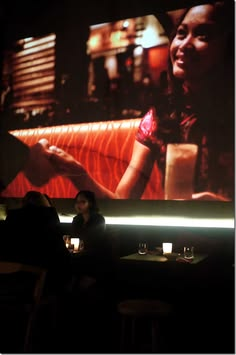
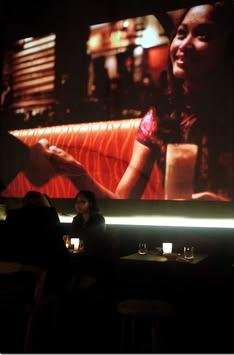
v3

diff --git a/index.html b/index.html
@@ -224,6 +224,26 @@
   .proj-gallery img:hover { filter: grayscale(0%) contrast(1.15); }
   @media (max-width: 900px) { .proj-gallery { grid-template-columns: repeat(2, 1fr); } .proj-gallery img { height: 190px; } }
   @media (max-width: 520px) { .proj-gallery { grid-template-columns: 1fr; } }
+  .coaster-gallery { display: grid; grid-template-columns: repeat(3, 1fr); gap: 18px; }
+  .coaster-gallery.two { grid-template-columns: repeat(2, 1fr); max-width: 680px; margin: 0 auto; }
+  .coaster-gallery.four { grid-template-columns: repeat(4, 1fr); }
+  @media (max-width: 900px) { .coaster-gallery.four { grid-template-columns: repeat(2, 1fr); } }
+  .menu-refs { display: grid; grid-template-columns: repeat(2, 1fr); gap: 16px; margin-top: 12px; }
+  .menu-refs.three { grid-template-columns: repeat(3, 1fr); }
+  .menu-refs figure { margin: 0; }
+  .menu-refs img { width: 100%; height: 420px; object-fit: cover; border-radius: 4px; display: block; filter: contrast(1.04); }
+  .menu-refs figcaption { margin-top: 9px; font-size: 0.6rem; font-weight: 600; letter-spacing: 0.14em; text-transform: uppercase; color: var(--concrete); line-height: 1.4; }
+  @media (max-width: 900px) { .menu-refs.three { grid-template-columns: repeat(2, 1fr); } }
+  @media (max-width: 640px) { .menu-refs, .menu-refs.three { grid-template-columns: 1fr; } }
+  .coaster-gallery figure { margin: 0; }
+  .coaster-gallery img { width: 100%; height: 300px; object-fit: cover; border-radius: 4px; display: block; filter: contrast(1.05); }
+  .coaster-gallery figcaption { margin-top: 9px; font-size: 0.6rem; font-weight: 600; letter-spacing: 0.16em; text-transform: uppercase; color: var(--concrete); }
+  .ref-label { margin-top: 20px; font-weight: 700; font-size: 0.6rem; letter-spacing: 0.2em; text-transform: uppercase; color: var(--bone); }
+  .ref-strip { display: grid; grid-template-columns: repeat(3, 1fr); gap: 14px; margin-top: 12px; }
+  .ref-strip figure { margin: 0; }
+  .ref-strip img { width: 100%; height: 160px; object-fit: cover; border-radius: 4px; display: block; opacity: 0.82; filter: grayscale(8%); }
+  .ref-strip figcaption { margin-top: 7px; font-size: 0.58rem; font-weight: 600; letter-spacing: 0.14em; text-transform: uppercase; color: var(--concrete); line-height: 1.35; }
+  @media (max-width: 900px) { .coaster-gallery { grid-template-columns: 1fr; } }
 
   /* ---------- Uniform & Merch ---------- */
   .merch-grid { display: grid; grid-template-columns: repeat(auto-fit, minmax(260px, 1fr)); gap: 24px; margin-top: 40px; align-items: start; }
@@ -232,6 +252,15 @@
   .merch-shot > img { width: 100%; height: auto; display: block; filter: contrast(1.03) brightness(0.97); }
   .merch-mark { position: absolute; transform: translate(-50%, -50%); filter: drop-shadow(0 2px 7px rgba(0,0,0,0.55)); }
   .merch-mark svg { width: 100%; height: auto; display: block; }
+  .merch-card.wide { grid-column: 1 / -1; }
+  .tee-examples, .cap-examples { display: grid; gap: 2px; }
+  .tee-examples { grid-template-columns: repeat(4, 1fr); }
+  .tee-examples.five { grid-template-columns: repeat(5, 1fr); }
+  .cap-examples { grid-template-columns: repeat(5, 1fr); }
+  .tee-examples figure, .cap-examples figure { margin: 0; position: relative; line-height: 0; }
+  .tee-examples img, .cap-examples img { width: 100%; height: 320px; object-fit: cover; display: block; filter: contrast(1.03) brightness(0.97); }
+  .tee-examples figcaption, .cap-examples figcaption { position: absolute; left: 0; right: 0; bottom: 0; padding: 8px 10px; font-size: 0.58rem; font-weight: 600; letter-spacing: 0.14em; text-transform: uppercase; color: #fff; line-height: 1.3; background: linear-gradient(to top, rgba(0,0,0,0.72), rgba(0,0,0,0)); }
+  @media (max-width: 720px) { .tee-examples, .cap-examples { grid-template-columns: repeat(2, 1fr); } }
   .merch-info { padding: 18px 20px 22px; }
   .merch-info .t { font-weight: 700; text-transform: uppercase; letter-spacing: 0.14em; font-size: 0.78rem; color: var(--molten); margin-bottom: 7px; }
   .merch-info .d { font-size: 0.84rem; color: var(--concrete); line-height: 1.56; }
@@ -473,11 +502,168 @@
 <section id="logo">
   <div class="wrap">
     <div class="sec-head"><span class="sec-num">04</span><h2>Logo Design Concepts</h2></div>
-    <p class="sec-intro">Three directions, each shown as a <b>blueprint</b> — the build-up from first stroke to finished mark on the right, and the symbolism annotated on the anatomy diagram. All share the same bespoke geometry: a monumental stone block plus the two circular icons you favoured.</p>
+    <p class="sec-intro">Four directions, each shown as a <b>blueprint</b> — the build-up from first stroke to finished mark on the right, and the symbolism annotated on the anatomy diagram. They run from a rough-hewn wordmark to a monumental stone block and two circular icons.</p>
 
-    <!-- Concept 01 — The Monolith -->
+    <p class="sec-intro" style="margin-top:30px;font-size:1rem;"><b style="color:var(--molten);letter-spacing:0.04em;">CONCEPT 01 · THE CONTRAST WORDMARK</b><br>One idea — a rough-hewn, organic 'O' meeting clean geometric type — shown as two variations below.</p>
+
+    <!-- Concept 01.1 — The Contrast Mark -->
     <div class="blueprint">
-      <div class="bp-head"><span class="type">Concept 01 · Stacked Monogram</span><h3>The Monolith</h3></div>
+      <div class="bp-head"><span class="type">Concept 1.1 · Contrast Wordmark</span><h3>The Contrast Mark</h3></div>
+      <p class="bp-sub">The name, built on tension. The 'O' is rough-hewn, wobbly, and organic — like a raw stone found in the earth. The 'RUS' is clean, sharp, and geometric. This contrast between raw nature and high design perfectly captures the brand, accented by a single molten spark.</p>
+      <div class="bp-grid">
+        <div class="bp-anatomy">
+          <div class="bp-label">Anatomy & Symbolism</div>
+          <svg viewBox="0 0 400 240" role="img" aria-label="Annotated contrast ORUS wordmark">
+            <defs>
+              <filter id="roughEdge" x="-20%" y="-20%" width="140%" height="140%">
+                <feTurbulence type="fractalNoise" baseFrequency="0.08" numOctaves="3" result="noise" />
+                <feDisplacementMap in="SourceGraphic" in2="noise" scale="4" xChannelSelector="R" yChannelSelector="G" />
+              </filter>
+            </defs>
+            
+            <!-- Clean RUS -->
+            <text x="115" y="135" font-size="68" font-weight="800" letter-spacing="4" fill="#EDE7DB">RUS</text>
+            
+            <!-- Rough O -->
+            <path d="M 70,80 C 95,77 105,95 102,120 C 98,140 75,143 55,135 C 40,125 42,95 50,85 C 58,75 65,82 70,80 Z M 72,100 C 68,105 68,120 75,123 C 82,125 88,110 82,103 C 78,97 75,95 72,100 Z" fill="#EDE7DB" filter="url(#roughEdge)" />
+            
+            <!-- Molten Spark -->
+            <path d="M 108,82 C 113,80 116,84 114,89 C 111,94 104,93 103,87 C 101,82 104,83 108,82 Z" fill="#E5531A" filter="url(#roughEdge)" />
+
+            <!-- Annotations — tidy right column -->
+            <line x1="114" y1="85" x2="300" y2="68" stroke="#9C958A" stroke-width="1" opacity="0.4" /><circle cx="114" cy="85" r="2" fill="#E5531A" />
+            <text x="308" y="66" font-size="12" font-weight="700" fill="#EDE7DB" letter-spacing="1">MOLTEN SPARK</text>
+            <text x="308" y="81" font-size="11" fill="#9C958A">A single warm accent</text>
+
+            <line x1="205" y1="100" x2="300" y2="118" stroke="#9C958A" stroke-width="1" opacity="0.4" /><circle cx="205" cy="100" r="2" fill="#E5531A" />
+            <text x="308" y="116" font-size="12" font-weight="700" fill="#EDE7DB" letter-spacing="1">CLEAN GEOMETRY</text>
+            <text x="308" y="131" font-size="11" fill="#9C958A">High-design contrast</text>
+
+            <line x1="72" y1="128" x2="300" y2="168" stroke="#9C958A" stroke-width="1" opacity="0.4" /><circle cx="72" cy="128" r="2" fill="#E5531A" />
+            <text x="308" y="166" font-size="12" font-weight="700" fill="#EDE7DB" letter-spacing="1">ROUGH-HEWN 'O'</text>
+            <text x="308" y="181" font-size="11" fill="#9C958A">Organic, stone-like origin</text>
+          </svg>
+        </div>
+        <div class="bp-process">
+          <div class="bp-label">Design Process</div>
+          <div class="bp-steps">
+            <div class="bp-step">
+              <svg viewBox="0 0 100 100">
+                <g transform="translate(-12 6) scale(0.4)">
+                  <text x="40" y="135" font-size="68" font-weight="800" letter-spacing="4" fill="#EDE7DB">ORUS</text>
+                </g>
+              </svg>
+              <span class="cap"><span class="num">1</span> · Set clean wordmark</span>
+            </div>
+            <div class="bp-arrow">›</div>
+            <div class="bp-step">
+              <svg viewBox="0 0 100 100">
+                <defs><filter id="r1" x="-20%" y="-20%" width="140%" height="140%"><feTurbulence type="fractalNoise" baseFrequency="0.08" numOctaves="3" result="n"/><feDisplacementMap in="SourceGraphic" in2="n" scale="4" xChannelSelector="R" yChannelSelector="G"/></filter></defs>
+                <g transform="translate(-12 6) scale(0.4)">
+                  <text x="115" y="135" font-size="68" font-weight="800" letter-spacing="4" fill="#EDE7DB">RUS</text>
+                  <path d="M 70,80 C 95,77 105,95 102,120 C 98,140 75,143 55,135 C 40,125 42,95 50,85 C 58,75 65,82 70,80 Z M 72,100 C 68,105 68,120 75,123 C 82,125 88,110 82,103 C 78,97 75,95 72,100 Z" fill="#EDE7DB" filter="url(#r1)" />
+                </g>
+              </svg>
+              <span class="cap"><span class="num">2</span> · Isolate &amp; roughen 'O'</span>
+            </div>
+            <div class="bp-arrow">›</div>
+            <div class="bp-step">
+              <svg viewBox="0 0 100 100">
+                <defs><filter id="r2" x="-20%" y="-20%" width="140%" height="140%"><feTurbulence type="fractalNoise" baseFrequency="0.08" numOctaves="3" result="n"/><feDisplacementMap in="SourceGraphic" in2="n" scale="4" xChannelSelector="R" yChannelSelector="G"/></filter></defs>
+                <g transform="translate(-12 6) scale(0.4)">
+                  <text x="115" y="135" font-size="68" font-weight="800" letter-spacing="4" fill="#EDE7DB">RUS</text>
+                  <path d="M 70,80 C 95,77 105,95 102,120 C 98,140 75,143 55,135 C 40,125 42,95 50,85 C 58,75 65,82 70,80 Z M 72,100 C 68,105 68,120 75,123 C 82,125 88,110 82,103 C 78,97 75,95 72,100 Z" fill="#EDE7DB" filter="url(#r2)" />
+                  <path d="M 108,82 C 113,80 116,84 114,89 C 111,94 104,93 103,87 C 101,82 104,83 108,82 Z" fill="#E5531A" filter="url(#r2)" />
+                </g>
+              </svg>
+              <span class="cap"><span class="num">3</span> · Add molten spark</span>
+            </div>
+          </div>
+        </div>
+      </div>
+    </div>
+
+    <!-- Concept 01.2 — The Seam (variation) -->
+    <div class="blueprint">
+      <div class="bp-head"><span class="type">Concept 1.2 · Contrast Wordmark · Variation</span><h3>The Seam</h3></div>
+      <p class="bp-sub">The same rough-hewn 'O' against clean type — but here the molten accent grows into a slanted, raw seam dropped in after the R, splitting the mark into <b>OR · US</b>. The seam leans and breaks just like the 'O', so it reads hewn from the same rock. It literally writes the brand wordplay: leave the OR behind, find US.</p>
+      <div class="bp-grid">
+        <div class="bp-anatomy">
+          <div class="bp-label">Anatomy & Symbolism</div>
+          <svg viewBox="0 0 400 240" role="img" aria-label="Annotated OR US seam wordmark">
+            <defs>
+              <filter id="roughEdge2" x="-20%" y="-20%" width="140%" height="140%">
+                <feTurbulence type="fractalNoise" baseFrequency="0.08" numOctaves="3" result="noise" />
+                <feDisplacementMap in="SourceGraphic" in2="noise" scale="4" xChannelSelector="R" yChannelSelector="G" />
+              </filter>
+            </defs>
+
+            <!-- Rough O -->
+            <path d="M 70,80 C 95,77 105,95 102,120 C 98,140 75,143 55,135 C 40,125 42,95 50,85 C 58,75 65,82 70,80 Z M 72,100 C 68,105 68,120 75,123 C 82,125 88,110 82,103 C 78,97 75,95 72,100 Z" fill="#EDE7DB" filter="url(#roughEdge2)" />
+            <!-- Clean R -->
+            <text x="112" y="135" font-size="60" font-weight="800" fill="#EDE7DB">R</text>
+            <!-- Rough molten seam -->
+            <path d="M 174,82 C 168,99 160,116 150,138 C 149,140 154,141 156,139 C 166,118 174,101 180,84 C 181,82 175,80 174,82 Z" fill="#E5531A" filter="url(#roughEdge2)" />
+            <!-- Clean US -->
+            <text x="178" y="135" font-size="60" font-weight="800" letter-spacing="2" fill="#EDE7DB">US</text>
+
+            <!-- Annotations — tidy right column -->
+            <line x1="176" y1="85" x2="300" y2="68" stroke="#9C958A" stroke-width="1" opacity="0.4" /><circle cx="176" cy="85" r="2" fill="#E5531A" />
+            <text x="308" y="66" font-size="12" font-weight="700" fill="#EDE7DB" letter-spacing="1">MOLTEN SEAM</text>
+            <text x="308" y="81" font-size="11" fill="#9C958A">Slanted &amp; raw, like the 'O'</text>
+
+            <line x1="235" y1="105" x2="300" y2="118" stroke="#9C958A" stroke-width="1" opacity="0.4" /><circle cx="235" cy="105" r="2" fill="#E5531A" />
+            <text x="308" y="116" font-size="12" font-weight="700" fill="#EDE7DB" letter-spacing="1">OR · US SPLIT</text>
+            <text x="308" y="131" font-size="11" fill="#9C958A">Leave the OR, find US</text>
+
+            <line x1="72" y1="128" x2="300" y2="168" stroke="#9C958A" stroke-width="1" opacity="0.4" /><circle cx="72" cy="128" r="2" fill="#E5531A" />
+            <text x="308" y="166" font-size="12" font-weight="700" fill="#EDE7DB" letter-spacing="1">ROUGH-HEWN 'O'</text>
+            <text x="308" y="181" font-size="11" fill="#9C958A">Organic, stone-like origin</text>
+          </svg>
+        </div>
+        <div class="bp-process">
+          <div class="bp-label">Design Process</div>
+          <div class="bp-steps">
+            <div class="bp-step">
+              <svg viewBox="0 0 100 100">
+                <g transform="translate(-12 6) scale(0.4)">
+                  <text x="40" y="135" font-size="68" font-weight="800" letter-spacing="4" fill="#EDE7DB">ORUS</text>
+                </g>
+              </svg>
+              <span class="cap"><span class="num">1</span> · Set clean wordmark</span>
+            </div>
+            <div class="bp-arrow">›</div>
+            <div class="bp-step">
+              <svg viewBox="0 0 100 100">
+                <defs><filter id="r3" x="-20%" y="-20%" width="140%" height="140%"><feTurbulence type="fractalNoise" baseFrequency="0.08" numOctaves="3" result="n"/><feDisplacementMap in="SourceGraphic" in2="n" scale="4" xChannelSelector="R" yChannelSelector="G"/></filter></defs>
+                <g transform="translate(-12 6) scale(0.4)">
+                  <text x="115" y="135" font-size="68" font-weight="800" letter-spacing="4" fill="#EDE7DB">RUS</text>
+                  <path d="M 70,80 C 95,77 105,95 102,120 C 98,140 75,143 55,135 C 40,125 42,95 50,85 C 58,75 65,82 70,80 Z M 72,100 C 68,105 68,120 75,123 C 82,125 88,110 82,103 C 78,97 75,95 72,100 Z" fill="#EDE7DB" filter="url(#r3)" />
+                </g>
+              </svg>
+              <span class="cap"><span class="num">2</span> · Roughen the 'O'</span>
+            </div>
+            <div class="bp-arrow">›</div>
+            <div class="bp-step">
+              <svg viewBox="0 0 100 100">
+                <defs><filter id="r4" x="-20%" y="-20%" width="140%" height="140%"><feTurbulence type="fractalNoise" baseFrequency="0.08" numOctaves="3" result="n"/><feDisplacementMap in="SourceGraphic" in2="n" scale="4" xChannelSelector="R" yChannelSelector="G"/></filter></defs>
+                <g transform="translate(-12 6) scale(0.4)">
+                  <text x="112" y="135" font-size="60" font-weight="800" fill="#EDE7DB">R</text>
+                  <text x="178" y="135" font-size="60" font-weight="800" letter-spacing="2" fill="#EDE7DB">US</text>
+                  <path d="M 70,80 C 95,77 105,95 102,120 C 98,140 75,143 55,135 C 40,125 42,95 50,85 C 58,75 65,82 70,80 Z M 72,100 C 68,105 68,120 75,123 C 82,125 88,110 82,103 C 78,97 75,95 72,100 Z" fill="#EDE7DB" filter="url(#r4)" />
+                  <path d="M 174,82 C 168,99 160,116 150,138 C 149,140 154,141 156,139 C 166,118 174,101 180,84 C 181,82 175,80 174,82 Z" fill="#E5531A" filter="url(#r4)" />
+                </g>
+              </svg>
+              <span class="cap"><span class="num">3</span> · Drop the molten seam</span>
+            </div>
+          </div>
+        </div>
+      </div>
+    </div>
+
+    <!-- Concept 02 — The Monolith -->
+    <div class="blueprint">
+      <div class="bp-head"><span class="type">Concept 02 · Stacked Monogram</span><h3>The Monolith</h3></div>
       <p class="bp-sub">A heavy, carved-in-stone 2×2 block — the most permanent, grounded expression of the brand, encoding the full wordmark and the OR / US wordplay in one monument.</p>
       <div class="bp-grid">
         <div class="bp-anatomy">
@@ -522,9 +708,9 @@
       </div>
     </div>
 
-    <!-- Concept 02 — The Circle of Life -->
+    <!-- Concept 03 — The Circle of Life -->
     <div class="blueprint">
-      <div class="bp-head"><span class="type">Concept 02 · Icon + Wordmark</span><h3>The Circle of Life</h3></div>
+      <div class="bp-head"><span class="type">Concept 03 · Icon + Wordmark</span><h3>The Circle of Life</h3></div>
       <p class="bp-sub">A standalone icon built from the "O" — geometric perfection broken by a single arc of dawn light, the mouth of the cave at sunrise.</p>
       <div class="bp-grid">
         <div class="bp-anatomy">
@@ -566,9 +752,9 @@
       </div>
     </div>
 
-    <!-- Concept 03 — The Seal -->
+    <!-- Concept 04 — The Seal -->
     <div class="blueprint">
-      <div class="bp-head"><span class="type">Concept 03 · Ink-Seal Icon</span><h3>The Seal</h3></div>
+      <div class="bp-head"><span class="type">Concept 04 · Ink-Seal Icon</span><h3>The Seal</h3></div>
       <p class="bp-sub">A refined, geometric take on the traditional hanko stamp — built for physical texture as the brand's definitive coaster and stamp seal.</p>
       <div class="bp-grid">
         <div class="bp-anatomy">
@@ -685,13 +871,15 @@
         <img src="Imageries/db89e3a1abf5ea58e33854cdd9843aa6.jpg" alt="Brand Imagery">
       </div>
       <div class="gallery-col">
+        <img src="Imageries/d1c78f9978de60b3c59f2ba8b704b021.jpg" alt="Brand Imagery">
+        <img src="Imageries/0154acc5bd4582aa62f79042e18b3d4c.jpg" alt="Brand Imagery">
         <img src="Imageries/518e50d0b1f07bab441b30b4355db726.jpg" alt="Brand Imagery">
         <img src="Imageries/6ed500bc70b33a1981e50d7a2e360956.jpg" alt="Brand Imagery">
         <img src="Imageries/4e7e24ab66c8a3569b9fe5c106814b15.jpg" alt="Brand Imagery">
+        <img src="Imageries/e04ae960af98b58748d96900b2c41556.jpg" alt="Brand Imagery">
         <img src="Imageries/25f1ed9c937a510100d8c97db108471e.jpg" alt="Brand Imagery">
         <img src="Imageries/a193a00c855d27e0f37655201161cff7.jpg" alt="Brand Imagery">
         <img src="Imageries/8edfea947015e0e3742e7548be404a74.jpg" alt="Brand Imagery">
-        <img src="Imageries/4bb884799c875e5cd66facf6089e9e96.jpg" alt="Brand Imagery">
       </div>
       <div class="gallery-col">
         <img src="Imageries/66d1a1c45a6f0f16686367eced483446.jpg" alt="Brand Imagery">
@@ -741,10 +929,34 @@
         </div>
       </div>
 
-      <!-- Menu & coaster — work in progress + concepts -->
+      <!-- Coasters & glass charms — built-in wingman -->
+      <div class="coll-card wide proj">
+        <div class="stage">
+          <div class="coaster-gallery four">
+            <figure><img src="Coaster/ref_best_before_charms.png" alt="Reusable silicone glass charms with playful Best Before lines"><figcaption>Reusable silicone glass charms</figcaption></figure>
+            <figure><img src="Coaster/ref_quote_coasters.png" alt="Recyclable board coasters with bold one-line typography"><figcaption>Recyclable board coasters</figcaption></figure>
+            <figure><img src="Coaster/ref_flirt_oneliner.png" alt="Round coaster reading Life is short, flirt with me"><figcaption>Flirty one-liner</figcaption></figure>
+            <figure><img src="Coaster/ref_double_sided.png" alt="Double-sided printed board coasters with a playlist and line-art"><figcaption>Double-sided · playlist &amp; art</figcaption></figure>
+          </div>
+        </div>
+        <div class="meta">
+          <div class="t">Coasters &amp; Glass Charms — A Built-in Wingman</div>
+          <div class="d">In a dark, intimate cave room, ORUS is a prime spot for first dates — so the coaster does the flirting. It comes as a pair: one reads <b>"OR…"</b>, the other <b>"…US"</b>. A date glances down and the line writes itself — "another one here… <b>OR US</b> heading back?" The name becomes an instant, low-key conversation starter. Extend it with a playful <b>"BEST BEFORE…"</b> series — flirting, last call, dancing, commitment — that regulars want to collect.<br><br>Format leans <b>sustainable</b>, not stone: <b>reusable silicone glass charms</b> that live on the stem and go home with regulars, plus <b>recycled-board coasters</b> printed in soy ink. Cheap on price, low on waste, never cheap to the touch.</div>
+          <div class="coll-spec"><span>Reusable Silicone</span><span>Recycled Board</span><span>OR… / …US Pair</span><span>Best-Before Series</span></div>
+        </div>
+      </div>
+
+      <!-- Menu — work in progress + concepts -->
       <div class="coll-note">
-        <h4>Menu &amp; Coaster — Coming Soon</h4>
-        <p>The menu and coaster designs need a little more time. Both hinge on locking the <b>final logo</b> and the <b>programme</b> first. In the meantime, here are three directions for the menu — each disguises the drink list as something unexpected, while still shouting value and nudging people to order.</p>
+        <h4>Menu — Coming Soon</h4>
+        <p>The menu design needs a little more time — it hinges on locking the <b>final logo</b> and the <b>programme</b> first.  <b>On format</b>, we like a tactile, low-waste object — a small photo booklet that shows the drinks instead of describing them, layered recycled stock with torn raw edges, die-cut icons, or clean mono type anchored by a single ore-rock mark. <b> On content</b>, here are three directions — each disguises the drink list as something unexpected, while still shouting value and nudging people to order.</p>
+        <div class="ref-label">Format &amp; Material References</div>
+        <div class="menu-refs">
+          <figure><img src="Menu/menu_booklet.png" alt="Tactile photo booklet menu showing dishes as photographs"><figcaption>Photo booklet · show the drink, don't describe it</figcaption></figure>
+          <figure><img src="Menu/menu_layered.png" alt="Layered recycled-stock menu with torn edges and colour-coded sections"><figcaption>Layered recycled stock · torn edges, colour-coded</figcaption></figure>
+          <figure><img src="Menu/menu_diecut_icons.png" alt="Kraft fold-out menu with die-cut food icons"><figcaption>Die-cut icons · kraft fold-out</figcaption></figure>
+          <figure><img src="Menu/menu_mono_clean.png" alt="Clean black and white menu with an ore-rock illustration"><figcaption>Clean mono type · ore-rock mark</figcaption></figure>
+        </div>
         <div class="menu-concepts">
           <div class="mc">
             <div class="n">CONCEPT 01</div>
@@ -815,26 +1027,47 @@
     <div class="merch-grid">
 
       <!-- Back-print crew tee -->
-      <div class="merch-card">
+      <div class="merch-card wide">
+        <div class="tee-examples five">
+          <figure><img src="Merchs/tee/tee_social_lubricant.png" alt="Back-print tee with a witty line and small illustration"><figcaption>Witty line + small line-art</figcaption></figure>
+          <figure><img src="Merchs/tee/tee_roasted_toasted.png" alt="Back-print tee with arched type and collab lockup"><figcaption>Arched type + collab lockup</figcaption></figure>
+          <figure><img src="Merchs/tee/tee_night_market.png" alt="Back-print tee with circular night-market badge"><figcaption>Circular badge / local crest</figcaption></figure>
+          <figure><img src="Merchs/tee/tee_plantastic.png" alt="Back-print tee with a bold organic graphic in oxide-red"><figcaption>Bold oxide-red graphic</figcaption></figure>
+          <figure><img src="Merchs/tee/tee_mascot_duo.png" alt="Two back-print tees with a walking food mascot in oxide-red"><figcaption>Playful mascot · cream & red</figcaption></figure>
+        </div>
         <div class="merch-info">
           <div class="t">Back-Print Crew Tee</div>
-          <div class="d">Oversized tee in bone and oxide-red. The seal blown up as a bold back print — the piece people actually wear out of the cave.</div>
+          <div class="d">Oversized tee in bone and oxide-red. Reference examples for the back-print direction — playful one-liners, arched type, a circular crest, and a single bold graphic. ORUS prints would carry the seal and wordmark in this same tongue-in-cheek, local-print spirit.</div>
         </div>
       </div>
 
       <!-- Embroidered cap -->
-      <div class="merch-card">
+      <div class="merch-card wide">
+        <div class="cap-examples">
+          <figure><img src="Merchs/cap/cap_produce_tray.png" alt="Cap packaged in a produce tray like supermarket fruit"><figcaption>Produce-tray packaging</figcaption></figure>
+          <figure><img src="Merchs/cap/cap_front_logo.png" alt="Washed cap with small front embroidery"><figcaption>Small front embroidery</figcaption></figure>
+          <figure><img src="Merchs/cap/cap_net_pack.png" alt="Caps bagged in a produce net like fruit"><figcaption>Net-bag packaging</figcaption></figure>
+          <figure><img src="Merchs/cap/cap_colour_range.png" alt="Row of washed caps in a range of colours"><figcaption>Washed colour range</figcaption></figure>
+          <figure><img src="Merchs/cap/cap_script_embroidery.png" alt="Stack of caps with script embroidery in multiple colours"><figcaption>Script embroidery · colourways</figcaption></figure>
+        </div>
         <div class="merch-info">
           <div class="t">Embroidered Cap</div>
-          <div class="d">Low-profile washed cap with the seal embroidered on the front. Quiet branding, all texture — worn long after the night ends.</div>
+          <div class="d">Low-profile washed cap with the seal embroidered on the front. Reference examples for direction — small front mark, washed colourways, script options, plus playful market-style packaging (produce tray, net bag) that ties caps back to ORUS's wet-market, value spirit.</div>
         </div>
       </div>
 
       <!-- Hoodie -->
-      <div class="merch-card">
+      <div class="merch-card wide">
+        <div class="tee-examples five">
+          <figure><img src="Merchs/hoodie/hoodie_tonal_back.png" alt="Black hoodie with large tonal back-print typography"><figcaption>Tonal tone-on-tone back-print</figcaption></figure>
+          <figure><img src="Merchs/hoodie/hoodie_front_type.png" alt="Cream hoodie with playful question-style front type"><figcaption>Front type · one-liner</figcaption></figure>
+          <figure><img src="Merchs/hoodie/hoodie_hood_embroidery.png" alt="Navy hoodie with tonal embroidery on the hood"><figcaption>Tonal hood embroidery</figcaption></figure>
+          <figure><img src="Merchs/hoodie/hoodie_back_line.png" alt="Pink hoodie with bold red back-print one-liner"><figcaption>Bold back-print line</figcaption></figure>
+          <figure><img src="Merchs/hoodie/hoodie_back_crest.png" alt="Cream hoodie with circular back crest and big letter"><figcaption>Circular back crest</figcaption></figure>
+        </div>
         <div class="merch-info">
           <div class="t">Heavyweight Hoodie</div>
-          <div class="d">Boxy, heavy-loopback hoodie in ore-black. Tonal seal on the chest, wide-spaced ORUS across the back — the cold-night layer that walks home.</div>
+          <div class="d">Boxy, heavy-loopback hoodie in ore-black. Reference examples for direction — a cheeky front one-liner, tonal hood embroidery, a bold oxide-red back line, and a circular crest. ORUS hoodies would carry the seal on the chest and wide-spaced wordmark across the back in this same tone.</div>
         </div>
       </div>
 